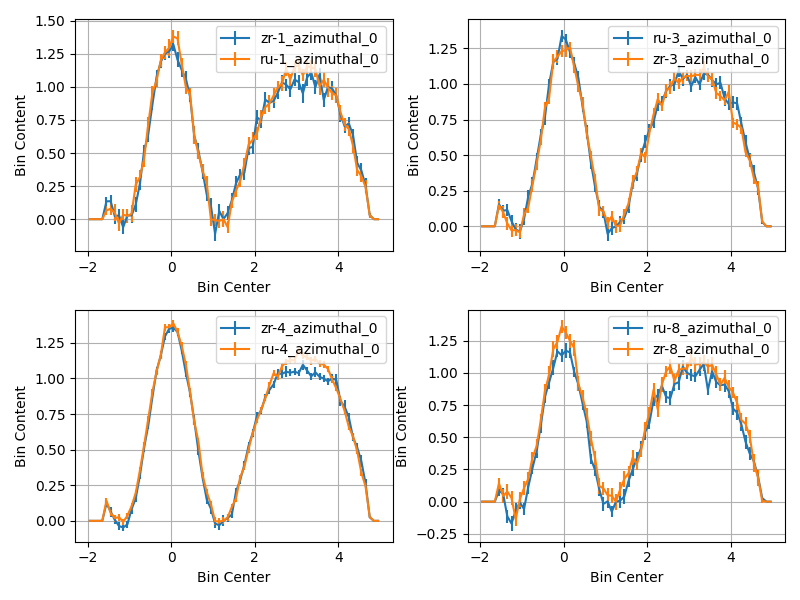
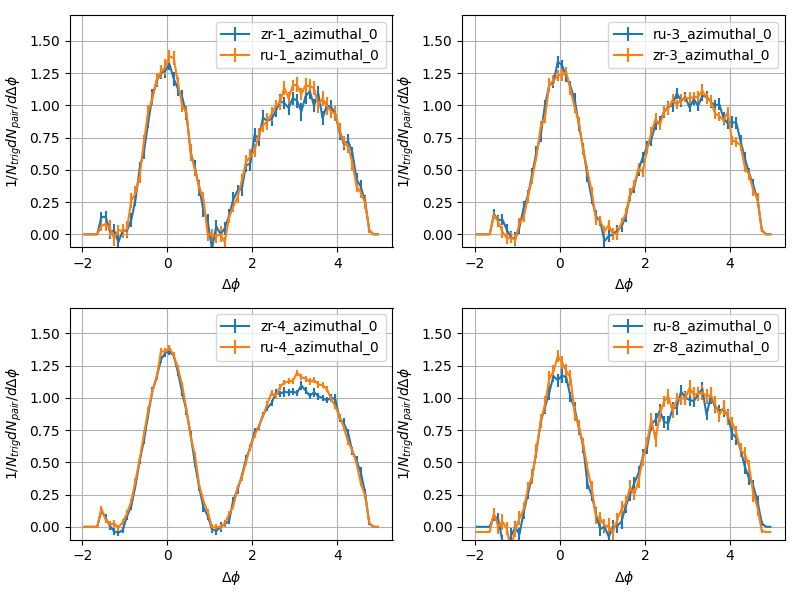
Initial commit

Changed region(s): [[0.0, 0.03, 0.9688, 0.99]]

diff --git a/pyazimuthal.py b/pyazimuthal.py
@@ -75,7 +75,10 @@ for prefix, files in data.items():
 
                 # 计算新的第三列误差
                 new_binError = (same_df['binError']**2 + (scale_factors_list[same_num] * mix_df['binError'])**2)**0.5
-                
+
+                if prefix == "zr-8":
+                    new_binContent = new_binContent - 0.04
+
                 # 生成新的DataFrame
                 new_df = pd.DataFrame({
                     'binCenter': same_df['binCenter'],
@@ -110,8 +113,9 @@ for key, df in result_data.items():
     if prefix in plot_mapping and same_num == 0: 
         ax = axes[plot_mapping[prefix]]
         ax.errorbar(df['binCenter'], df['new_binContent'], yerr=df['new_binError'], label=key)
-        ax.set_xlabel('Bin Center')
-        ax.set_ylabel('Bin Content')
+        ax.set_xlabel('$\Delta \phi$')
+        ax.set_ylabel('$1/N_{trig}dN_{pair}/d\Delta\phi$')
+        ax.set_ylim(-0.1,1.7 )
         ax.legend()
         ax.grid(True)
 
